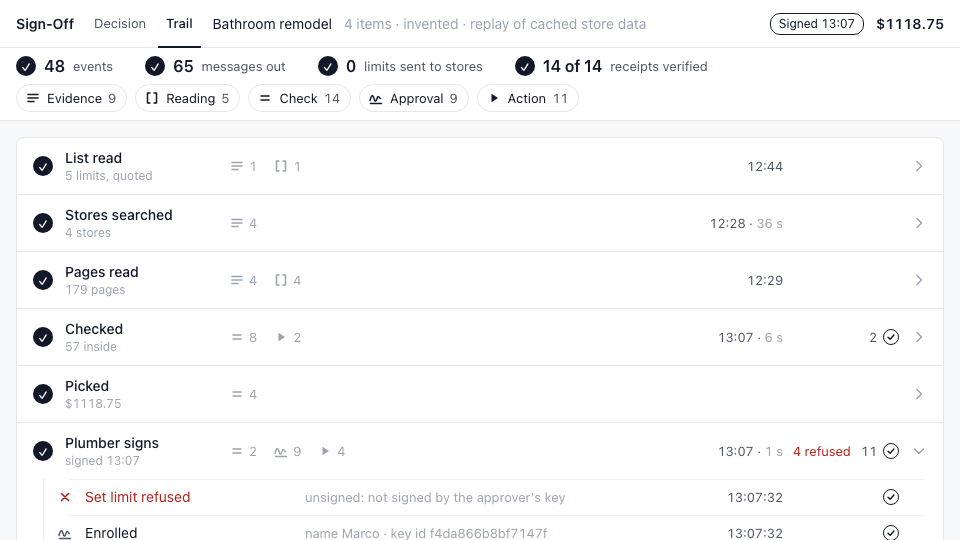
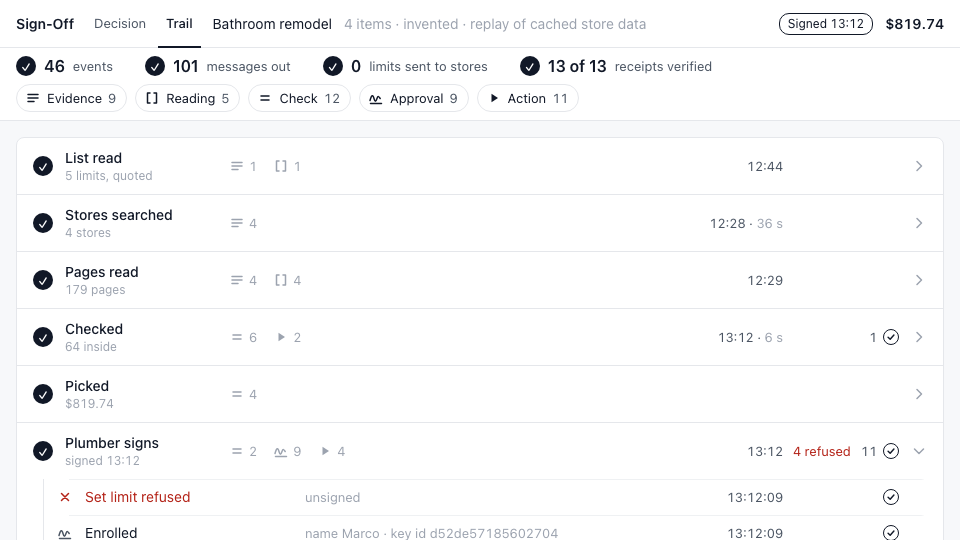
TRAIL: row details cut to their facts (full text in the side sheet); shots retaken on a signed sheet-2 run

diff --git a/web/trail/trail.js b/web/trail/trail.js
@@ -37,6 +37,12 @@ function dur(ms) {
   return s < 60 ? s + " s" : Math.floor(s / 60) + " min" + (s % 60 ? " " + (s % 60) + " s" : "");
 }
 const short = (h) => String(h || "").slice(0, 10);
+/** A detail for the surface: its facts (the parts between " · "), each cut at its colon and at five words.
+ *  The whole text is in the side sheet. */
+const brief = (detail) => String(detail || "").split(" · ").map((part) => {
+  const words = part.split(": ")[0].replace(/_/g, " ").split(/\s+/);
+  return words.length > 5 ? words.slice(0, 5).join(" ") + "…" : words.join(" ");
+}).join(" · ");
 const records = (e) => e.items.length + e.more;
 
 // ---------- top bar and band ----------
@@ -82,7 +88,7 @@ function eventRow(e, fresh) {
   const when = [clock(e.at), e.duration_ms != null ? `<i>${dur(e.duration_ms)}</i>` : ""].filter(Boolean).join(" · ");
   const tick = e.receipt != null ? `<span class="rt ${e.verified === false ? "bad" : ""}" data-tip="receipt ${e.receipt}" data-code="${esc(short(e.hash))}">${e.verified === false ? CROSS : TICK}</span>` : "";
   return `<button class="${cls}" data-k="${esc(k)}" title="${esc(cap(e.kind))}">${icon(e.stopped ? "stop" : e.kind)}
-    <span class="lb">${esc(e.label)}</span><span class="dt">${esc(e.detail)}</span><span class="at">${when}</span><span class="er">${tick}</span></button>`;
+    <span class="lb">${esc(e.label)}</span><span class="dt">${esc(brief(e.detail))}</span><span class="at">${when}</span><span class="er">${tick}</span></button>`;
 }
 
 function stepRow(s, fresh) {
